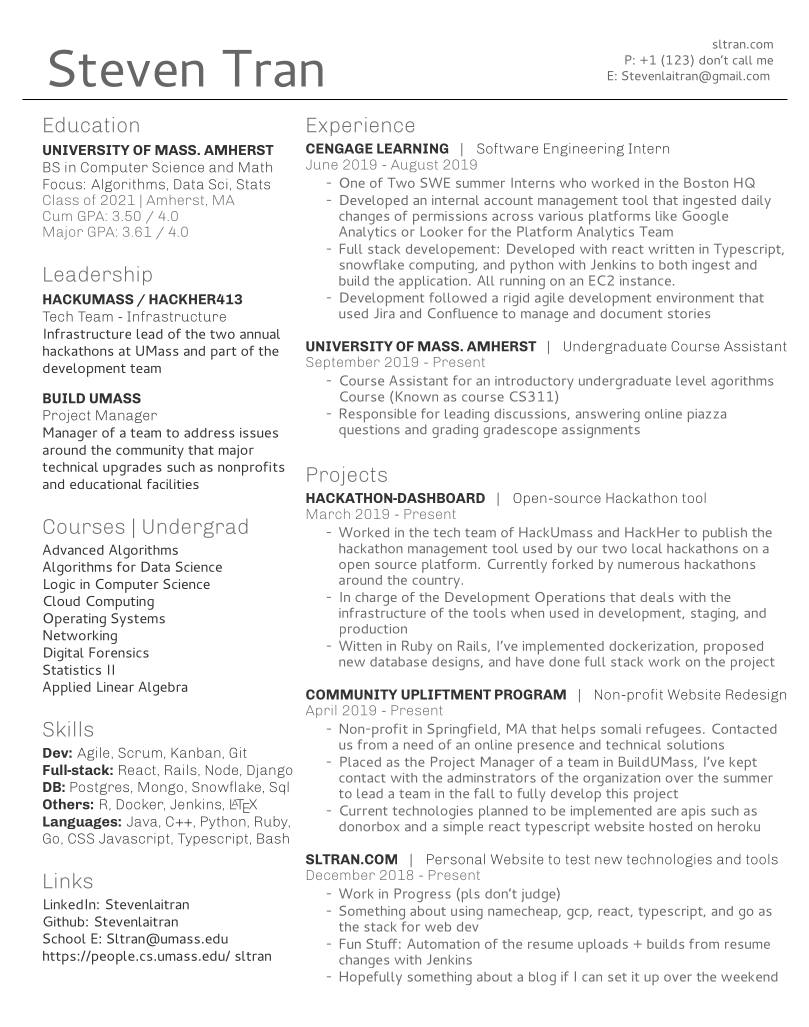
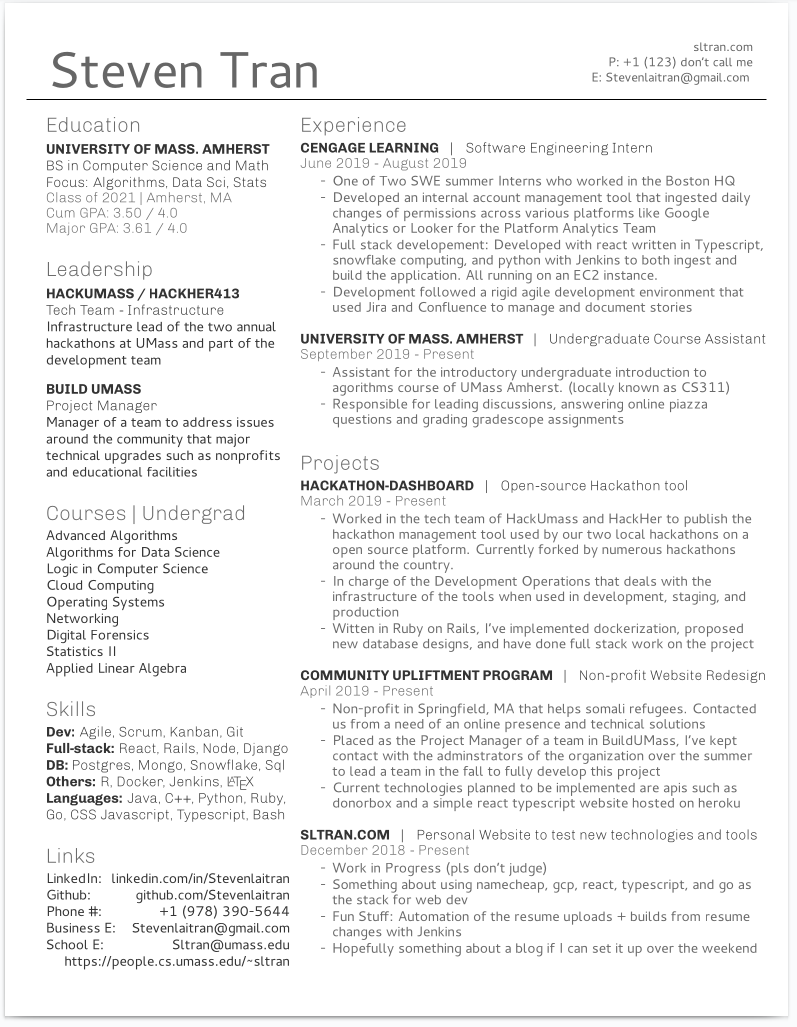
small changes

Changed region(s): [[0.0, 0.0312, 0.9636, 0.9971], [0.7528, 0.0312, 0.9636, 0.0935]]

diff --git a/resume/sections/mainbar.tex b/resume/sections/mainbar.tex
@@ -16,7 +16,7 @@
 \descript{| \hspace{0.15cm} Undergraduate Course Assistant}
 \location{September 2019 - Present}
 \begin{tightemize}
-    \item Course Assistant for an introductory undergraduate level agorithms Course (Known as course CS311)
+    \item Assistant for the introductory undergraduate introduction to agorithms course of UMass Amherst. (locally known as CS311)
     \item Responsible for leading discussions, answering online piazza questions and grading gradescope assignments
 \end{tightemize}
 \sectionsep
@@ -42,7 +42,7 @@
 \end{tightemize}
 \sectionsep
 
-\runsubsection{Sltran.com}
+\runsubsection{\href{https://Sltran.com}{Sltran.com}}
 \descript{| \hspace{0.15cm} Personal Website to test new technologies and tools}
 \location{December 2018 - Present}
 \begin{tightemize}

diff --git a/resume/sections/sidebar.tex b/resume/sections/sidebar.tex
@@ -55,10 +55,10 @@ Applied Linear Algebra \\
 
 
 \section{Links}
-LinkedIn: Stevenlaitran \\
-Github: Stevenlaitran \\
-School E: Sltran@umass.edu \\
-https://people.cs.umass.edu/~sltran \\
-
-
+LinkedIn:   \hfill \href{https://www.linkedin.com/in/stevenlaitran/}{linkedin.com/in/Stevenlaitran} \\
+Github:     \hfill \href{https://github.com/stevenlaitran}{github.com/Stevenlaitran} \\
+Phone \#:   \hfill +1 (978) 390-5644 \\
+Business E: \hfill \href{mailto:stevenlaitran@gmail.com}{Stevenlaitran@gmail.com} 
+School E:   \hfill \href{mailto:Sltran@umass.edu}{Sltran@umass.edu} \\
+            \hfill \href{https://people.cs.umass.edu/~sltran}{https://people.cs.umass.edu/\textasciitilde{}sltran} \\
 
